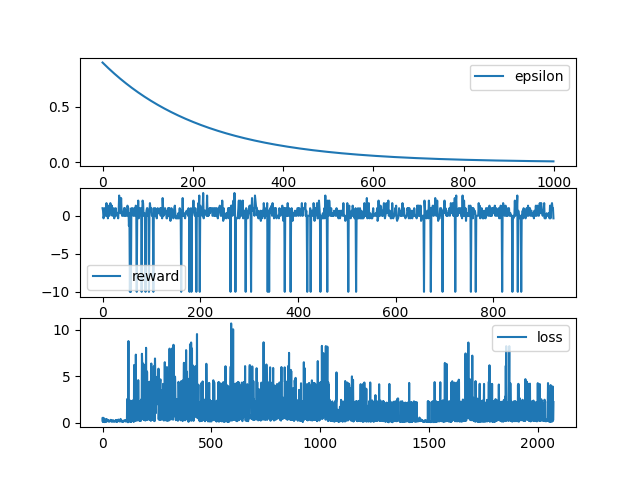
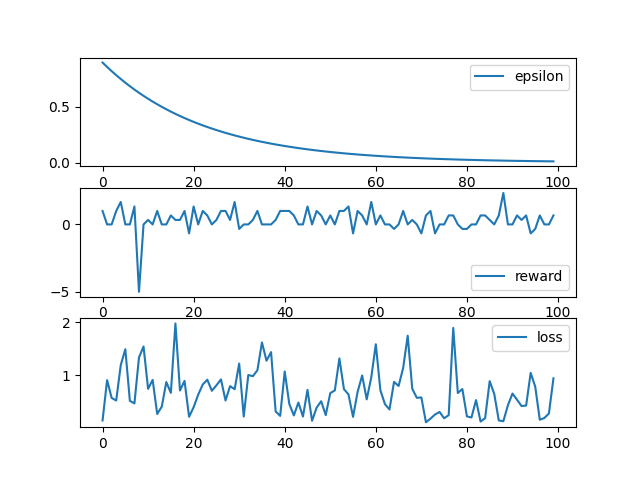
saving memory

diff --git a/multi_optim/mapf_with_rl.py b/multi_optim/mapf_with_rl.py
@@ -68,7 +68,7 @@ class Scenario(object):
         """based on current state of the scenario, take this action and
         continue to run it until the next policy call or finish"""
         # cost if simulation was unsuccessfull:
-        UNSUCCESSFUL_COST = -10.
+        UNSUCCESSFUL_COST = -5.
         # take step also on other agent
         # TODO: for double the data we would need to also get the state of the
         # other agent, here
@@ -256,6 +256,8 @@ def q_learning(n_episodes: int, eps_start: float,
     epsilons = []
     rewards = []
     losss = []
+    stat_every = int(n_episodes / 100)
+    i_o = 0  # count optimizations
 
     pb = ProgressBar("Epochs", n_episodes, 5)
     # 1
@@ -263,8 +265,8 @@ def q_learning(n_episodes: int, eps_start: float,
         # 2
         [scenario] = make_useful_scenarios(1, i_e * 10)
         epsilon = eps_start * exp(-eps_alpha * i_e)
-        epsilons.append(epsilon)
         state = scenario.start()
+        next_state = None
         # 3
         for i_t in range(time_limit):
             if state is not None:
@@ -278,8 +280,7 @@ def q_learning(n_episodes: int, eps_start: float,
                 # 6
                 next_state, reward = scenario.step(action)
                 # 7
-                if next_state is None:  # agents reached their goals
-                    rewards.append(reward)
+                # if next_state is None:  # agents reached their goals
                 # 8 store in replay memory
                 memory_tuple = (
                     state,
@@ -296,14 +297,22 @@ def q_learning(n_episodes: int, eps_start: float,
                     n_training_batch, d, qfun_hat, gamma)
                 # 12
                 loss = train(training_batch, qfun, optimizer)
-                losss.append(loss)
+                i_o += 1
                 # 13
-                if i_t % c == 0:
+                if i_o % c == 0:
                     qfun.copy_to(qfun_hat)
                 # for next round
+                del state
                 state = next_state
             else:
                 break
+        if i_e % stat_every == 0:
+            rewards.append(reward)
+            losss.append(loss)
+            epsilons.append(epsilon)
+        del scenario
+        del state
+        del next_state
         pb.progress()
     pb.end()
 
@@ -321,9 +330,9 @@ def q_learning(n_episodes: int, eps_start: float,
 
 if __name__ == "__main__":
     q_learning(
-        n_episodes=1000,
+        n_episodes=10000,
         eps_start=.9,
-        c=10,
-        gamma=.9,
-        n_training_batch=50
+        c=100,
+        gamma=.95,
+        n_training_batch=100
     )
